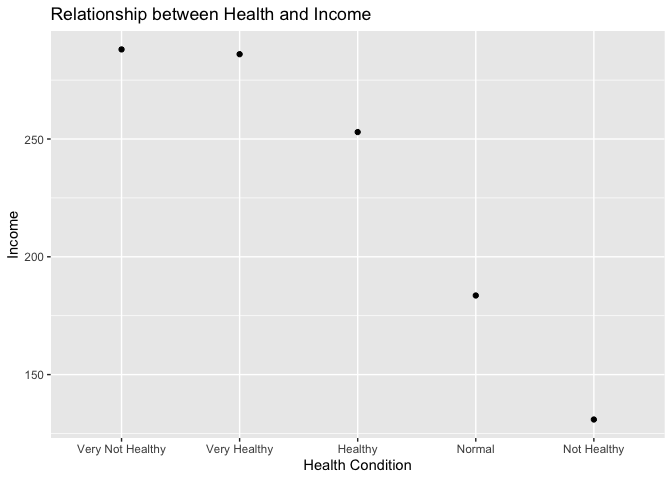
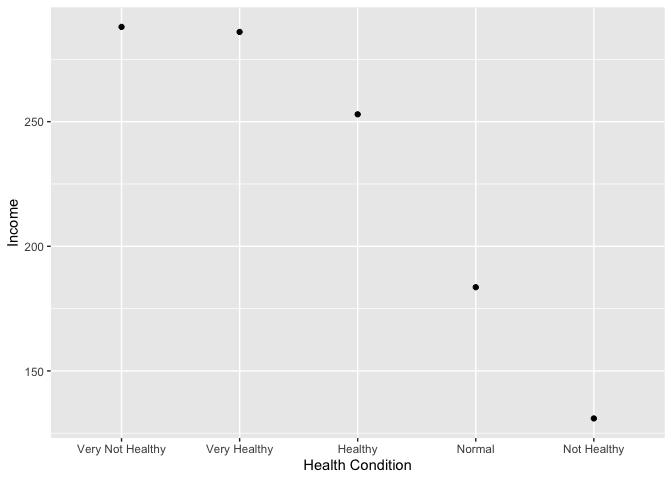
Add files via upload

diff --git a/welfare10.md b/welfare10.md
@@ -66,11 +66,11 @@ med_income
 
 #### 2\. 소득이 많은 순으로 그래프를 그린다
 
-알기쉽게 바꾼 건강상태 데이터와 월급 데이터를 가지고 그래프를 그린다. 근소한 차이를 보이는 데이터가 있어 막대 그래프보다는 점
-그래프를 그렸다.
+알기쉽게 바꾼 건강상태 데이터와 월급 데이터를 가지고 그래프를 그린다. 비교하기 쉽도록 월급이 높은순으로 순서를 바꿨다. 근소한
+차이를 보이는 데이터가 있어 막대 그래프보다는 점 그래프를 그렸다.
 
 ``` r
-ggplot(med_income,aes(reorder(health,-mean_income),mean_income))+geom_point()  + labs(x="Health Condition",y="Income", title= "Relationship between Health and Income") 
+ggplot(med_income,aes(reorder(health,-mean_income),mean_income))+geom_point()  + labs(x="Health Condition",y="Income") 
 ```
 
 ![](welfare10_files/figure-gfm/unnamed-chunk-7-1.png)<!-- -->
